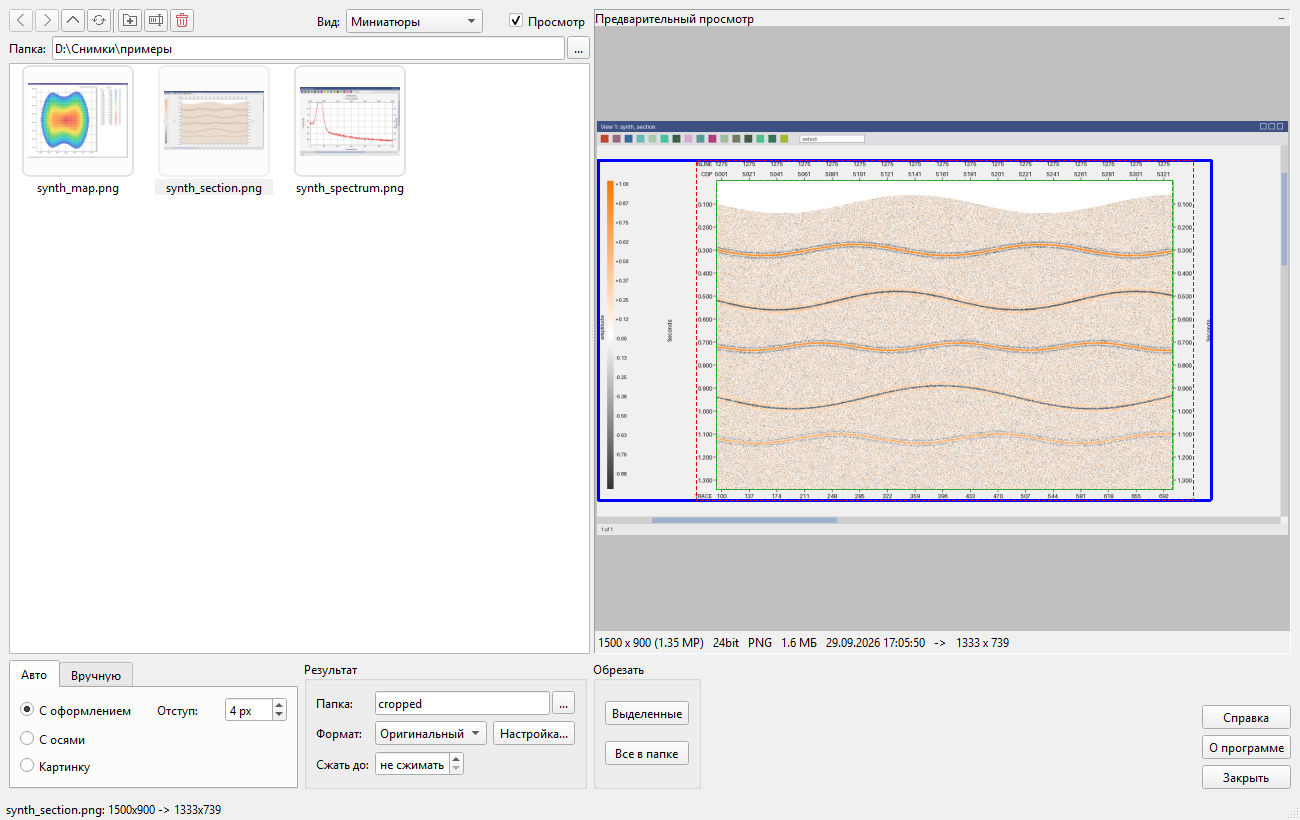
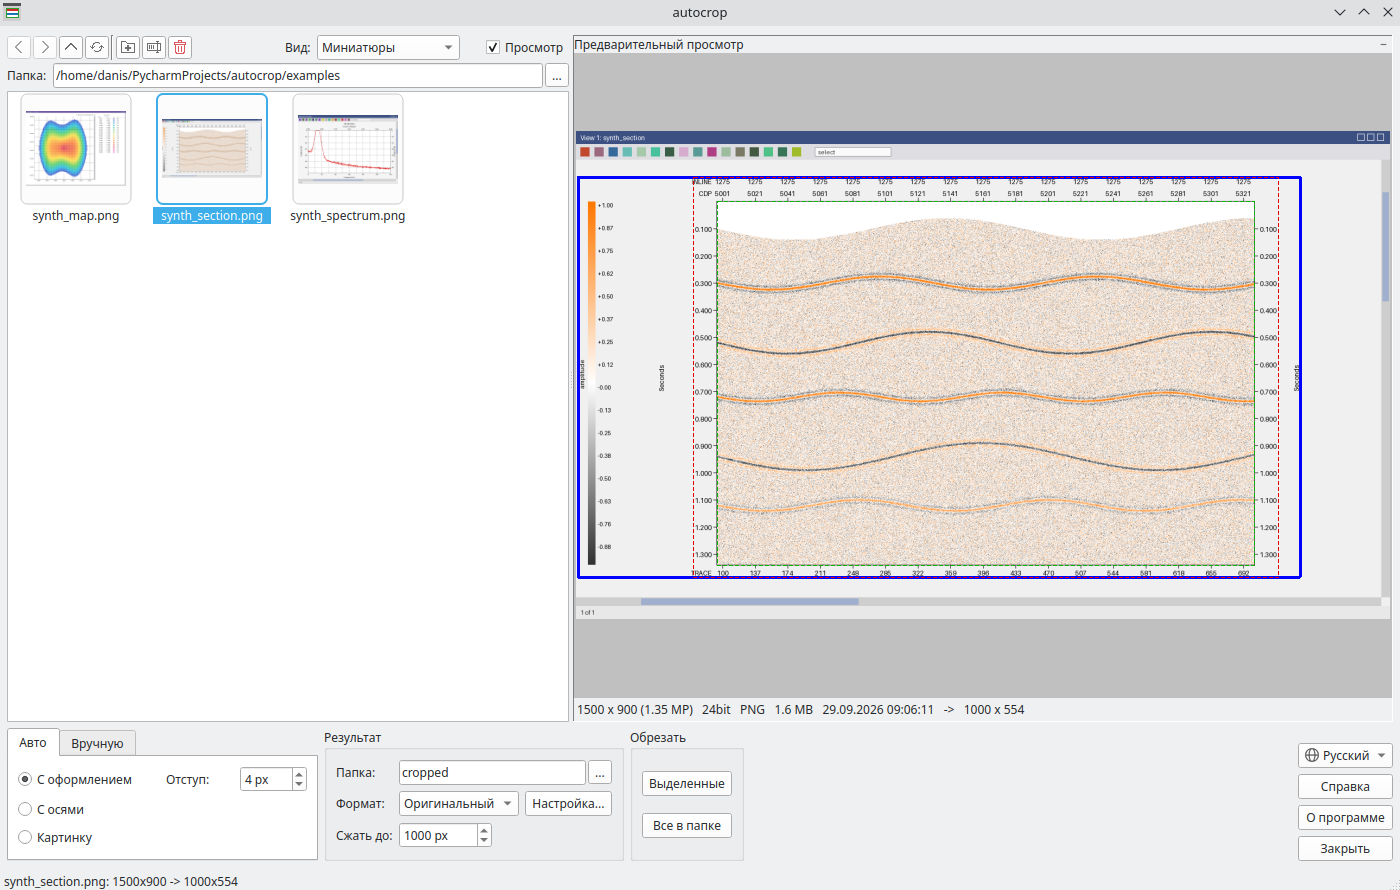
autocrop: снимки окна со списком языка, английские - для английской страницы
Ручная рамка теперь снята на synth_section.png - подпись поправлена.

Changed region(s): [[0.0, 0.0, 1.0, 1.0], [0.9231, 0.8232, 1.0, 0.9756]]

diff --git a/docs/autocrop.en.md b/docs/autocrop.en.md
@@ -6,7 +6,7 @@ bars, status bar and empty space are cut off; the frame is found automatically o
 every screenshot. What remains is the image, the image with axes or with all
 annotations - ready for a report or a presentation.
 
-![autocrop window](img/autocrop.png)
+![autocrop window](img/autocrop_en.png)
 
 ## Download
 
@@ -61,7 +61,7 @@ pixels. It can be set with the mouse right in the preview: drag an edge or a
 corner to resize, drag from inside to move, drag outside the frame to draw a new
 one. Arrow keys move the frame by 10 pixels, with Shift - by one.
 
-![Manual: synth_map.png](img/autocrop_manual.png)
+![Manual: synth_section.png](img/autocrop_manual_en.png)
 
 ## Result
 
